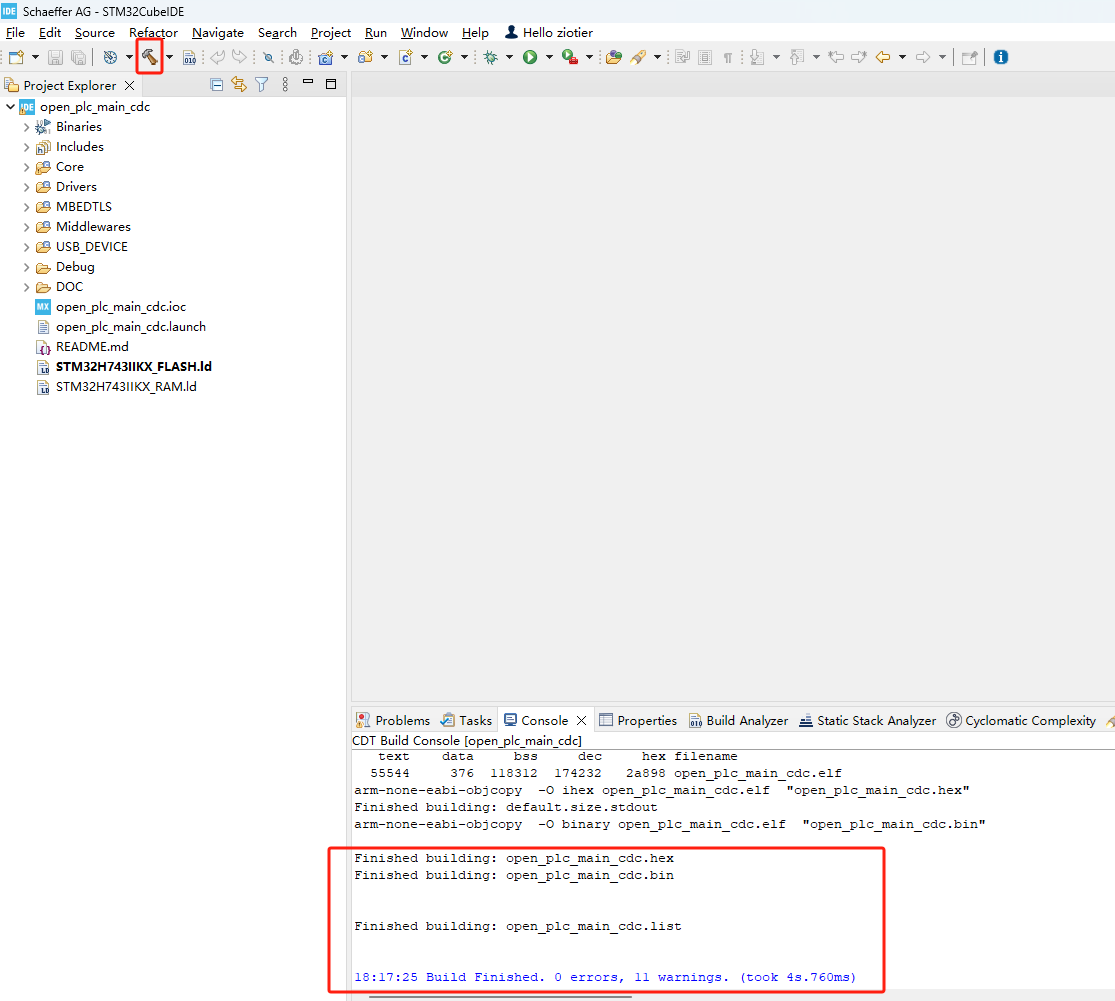
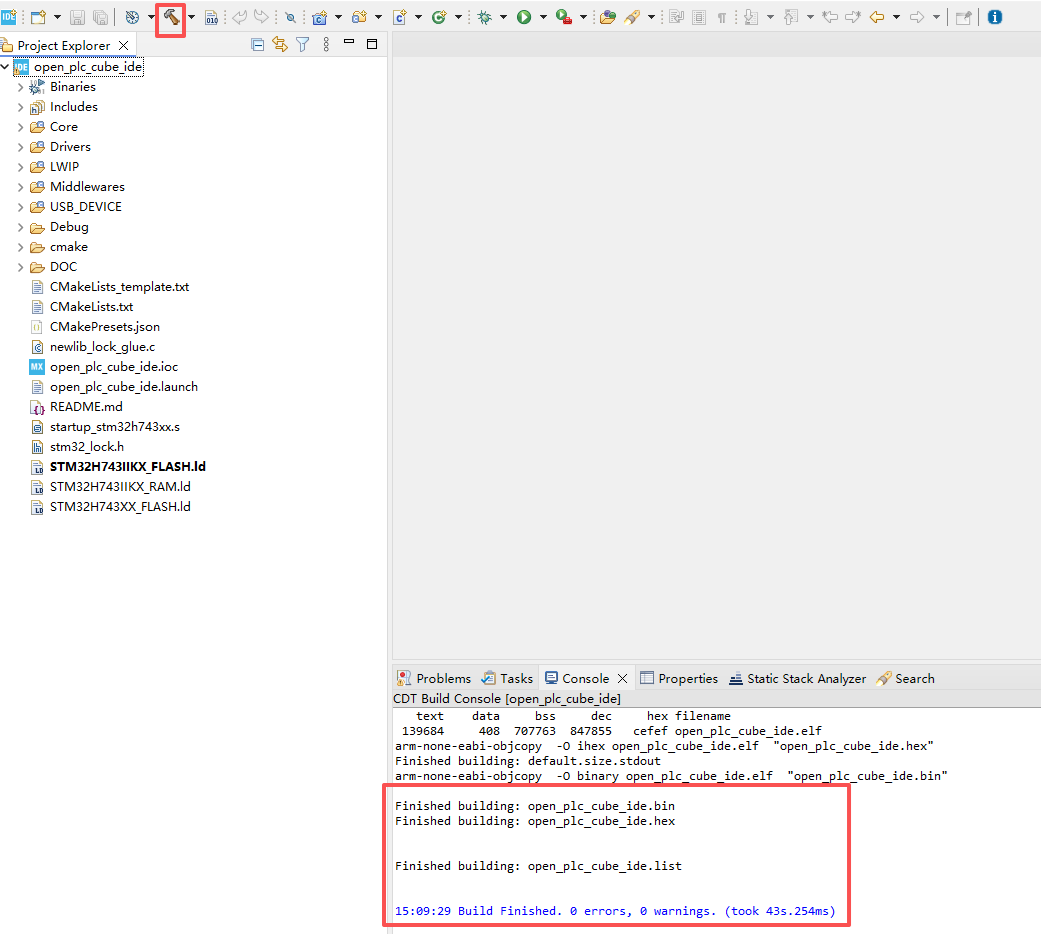
update info

diff --git a/Core/Src/IAP_server.c b/Core/Src/IAP_server.c
@@ -168,7 +168,6 @@ void server_init (void) {
 	// 判断启动模式
 	if (boot_flag == MAGIC_CDC_FLAG) {
 		current_method = IAP_CDC;
-
 	} else if (boot_flag == MAGIC_ETH_FLAG) {
 		current_method = IAP_ETHERNET;
 	} else if ((app_msp & 0x2FFE0000) != 0x24080000

diff --git a/README.md b/README.md
@@ -7,18 +7,18 @@ c- Download STM32-Cube-FW-H7 (optional, STM32 samples) [link](https://www.st.com
 ---
 **Tips**  
 There are two modes of the openplc:
-- UPLOAD mode: Be able to update the arduino application to the device.  
+- BootLoader mode: Be able to upload the arduino application to the device.  
 - APP mode (default): Run the arduino application directly.  
 
 There are three ways to stay in the UPLOAD mode:  
-1. The BKP register `MAGIC_BKP_REG` is set to `MAGIC_BOOTLOADER_FLAG`  
+1. The BKP register `MAGIC_BKP_REG` is set to `MAGIC_CDC_FLAG` or `MAGIC_ETH_FLAG`  
 2. The address of `IAP_APP_ADDRESS` is empty
 3. The address of `IAP_APP_ADDRESS` is not empty and the button `BOOT0` is pressed
 
 ---
 
 # Download BootLoader-Menu to PLC-H743IIKx  
-a- Clone the git repo  (https://gitea.apps.cluster.schaeffer-ag.de/OpenPLC_Alpha/open_plc_main_cdc.git)  
+a- Clone the git repo  (ssh://git@git.schaeffer-ag.de/OpenPLC_Alpha/open_plc_cube_ide.git)  
 b- Open the project using STM32Cube ide  
 c- Compile the project  
 
@@ -29,12 +29,13 @@ d- Connect ST-LINK to JTAG socket on the board
 ![image](DOC/pic/2.png)  
 
 e- Connect the RS232 pins ( PC11 -> UART4_RX | PC10 -> UART4_TX) to the pc with the serial port converter cable    
-   (In Ubuntu it will be recognized as "/dev/ttyUSBxx" and in Windows it will be "COMxx": xx for your own device number. For me,it is COM5 | /dev/ttyUSB0)  
     
 f- Connect the device USB port to pc with USB cable (Arduino IDE will download bin file through this port)   
-   
-g- using Cube IDE, select Run -> open_plc_main_cdc   
- (If it is empty, click 'Run Configurations...' -> select 'open_plc_main_cdc' -> 'Run' )  
+
+g- Connect the network cable between router and OpenPLC  
+
+h- using Cube IDE, select Run -> open_plc_cube_ide   
+ (If it is empty, click 'Run Configurations...' -> select 'open_plc_cube_ide' -> 'Run' )  
 i- download file to the board  
 
 ![image](DOC/pic/3.png)
@@ -48,8 +49,8 @@ i- download file to the board
 
 # Download Applications using Arduino
 
-a- add the following url to arduino > file > preferences (https://github.com/haliboteda/package_index_json/releases/download/file/package_openplc_alp_index.json)  
-If you have already installed the package, Please remove it first and then follow the instruction.  
+a- add the following url to arduino > file > preferences (https://github.com/haliboteda/package_index_json/releases/download/v0.1.2/package_openplc_alp_index.json)  
+*If you have already installed the package, Please remove it first and then follow the instruction.*  
 ***\**Please don't try to connect OpenPLC with serial monitor at baud rate 1200. Because it will cause the openplc keep rebooting.***  
 
 ![image](DOC/pic/9.png)  
@@ -64,13 +65,17 @@ c- Select the lastest version and press install
 
 ![image](DOC/pic/12.png)  
 
-d- after download, select the openplc board "OPEN-PLC" and select the USB port "COM3 | /dev/ttyACM0"  
+d- after download, select the openplc board "OPEN-PLC" 
 
 ![image](DOC/pic/13.png)  
 
-e- select port number 'PLC H743' and upload method "CDC Transfer"  
+e1- You could select upload method "CDC Transfer" and select the OpenPLC CDC(usb) port "COM3 | /dev/ttyACM0"  
 
 ![image](DOC/pic/14.png)  
+
+e2- Or You could select upload method "ETH Transfer"   
+
+![image](DOC/pic/15.png)  
 
 f- write your sketch  
 ```c
@@ -89,16 +94,20 @@ void loop() {
 ```
 
 g- __You don't need to do anything. The program will automatically copy the code into OpenPLC.__  
-
-![image](DOC/pic/app_mod.png)  
+This is CDC Transfer log:  
+![image](DOC/pic/CDCTransfer.png)  
+This is ETH Transfer log:  
+![image](DOC/pic/EthTransfer.png)  
 
 ---
 **FAQ**  
 - In Linux, Arduino IDE need permission to open serial port. Please add use into user group "dialout".  
    (https://support.arduino.cc/hc/en-us/articles/360016495679-Fix-port-access-on-Linux)    
 - There are some *.sh files in the Arduino package need permission to execute. Please give +x to them. (Replace {user name} and {package version} according to your environment )  
-   chmod +x "/home/{user name}/.arduino15/packages/OpenPLC_Alpha/hardware/stm32/{package version}/system/extras/postbuild.sh"   
-   chmod +x "/home/{user name}/.arduino15/packages/OpenPLC_Alpha/hardware/stm32/{package version}/system/extras/postbuild.sh"  
+   `chmod +x "/home/{user name}/.arduino15/packages/OpenPLC_Alpha/hardware/stm32/{package version}/system/extras/prebuild.sh"`   
+   `chmod +x "/home/{user name}/.arduino15/packages/OpenPLC_Alpha/hardware/stm32/{package version}/system/extras/postbuild.sh"`  
+- The IAPTool needs permission to execute and save config infomation into the file local_config.json.  
+   `chmod +x "/home/{user name}/.arduino15/packages/OpenPLC_Alpha/tools/STM32Tools/{package version}/linux/IAPTool"`    
 - **When you have already uploaded the arduino bin file and then want to load into Upload mode again but you failed, Please reset the device and hold down the `BOOT0` button for 3-5 seconds when clicking. And then the device will stay in the Upload mode.**   
 ---
   
